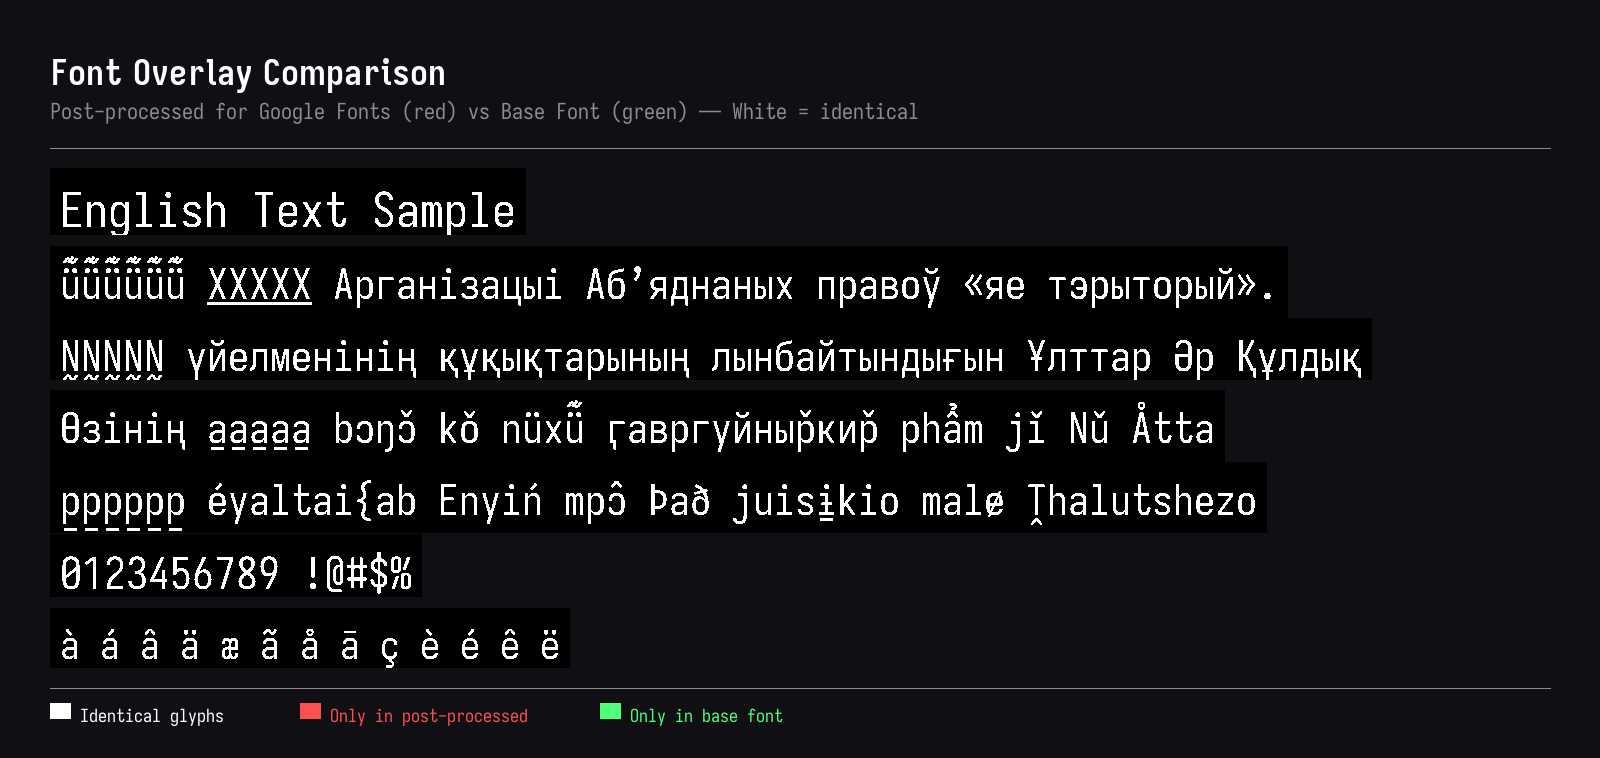
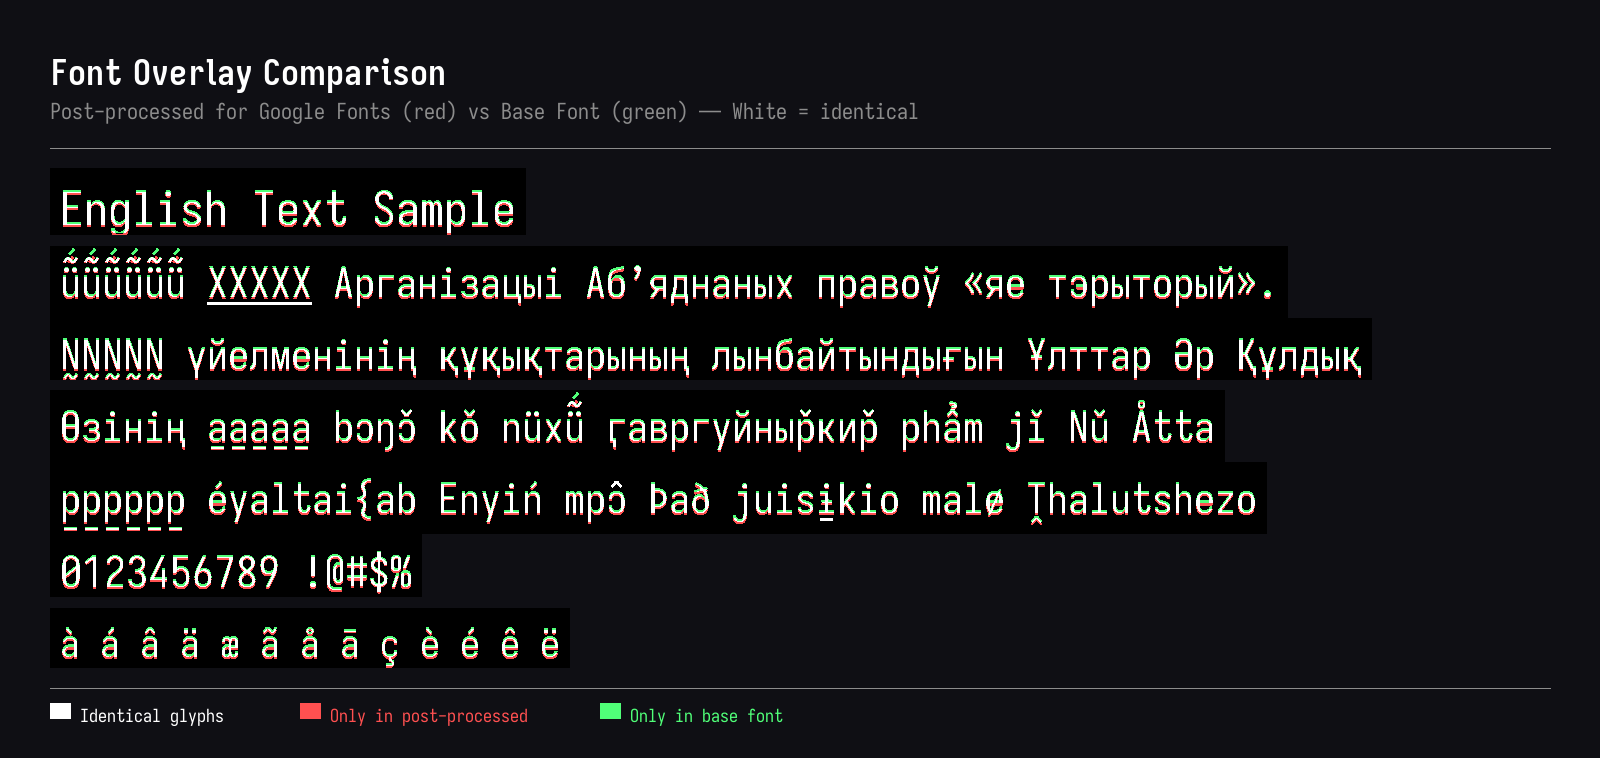
wip

diff --git a/scripts/fix_fonts.py b/scripts/fix_fonts.py
@@ -513,7 +513,7 @@ def add_fallback_mark_anchors(font):
 
     mark_anchors = {}
     mark_classes_present = set()
-    stack_gap = 40
+    stack_gap = 60
 
     # Collect average mark heights per class to scale gaps (use all combining marks).
     class_heights = {}
@@ -593,15 +593,15 @@ def add_fallback_mark_anchors(font):
         gap = class_gap(cls)
         # mark1 anchor (where next mark attaches)
         if cls == 1:  # below
-            m1y = glyph.yMax
-            m2y = glyph.yMin - gap
+            m1y = glyph.yMin - gap  # attach next below this mark
+            m2y = glyph.yMax + gap  # attach this mark to previous below
         elif cls == 2:  # overlay
             mid = (glyph.yMin + glyph.yMax) // 2
             m1y = mid
             m2y = mid
         else:  # above/default
-            m1y = glyph.yMin
-            m2y = glyph.yMax + gap
+            m1y = glyph.yMax + gap  # attach next above this mark
+            m2y = glyph.yMin - gap  # attach this mark to previous above
         mark1_for_mkmk[name] = (cls, buildAnchor(mx, m1y))
         mark2_anchors[name] = {cls: buildAnchor(mx, m2y)}
 
